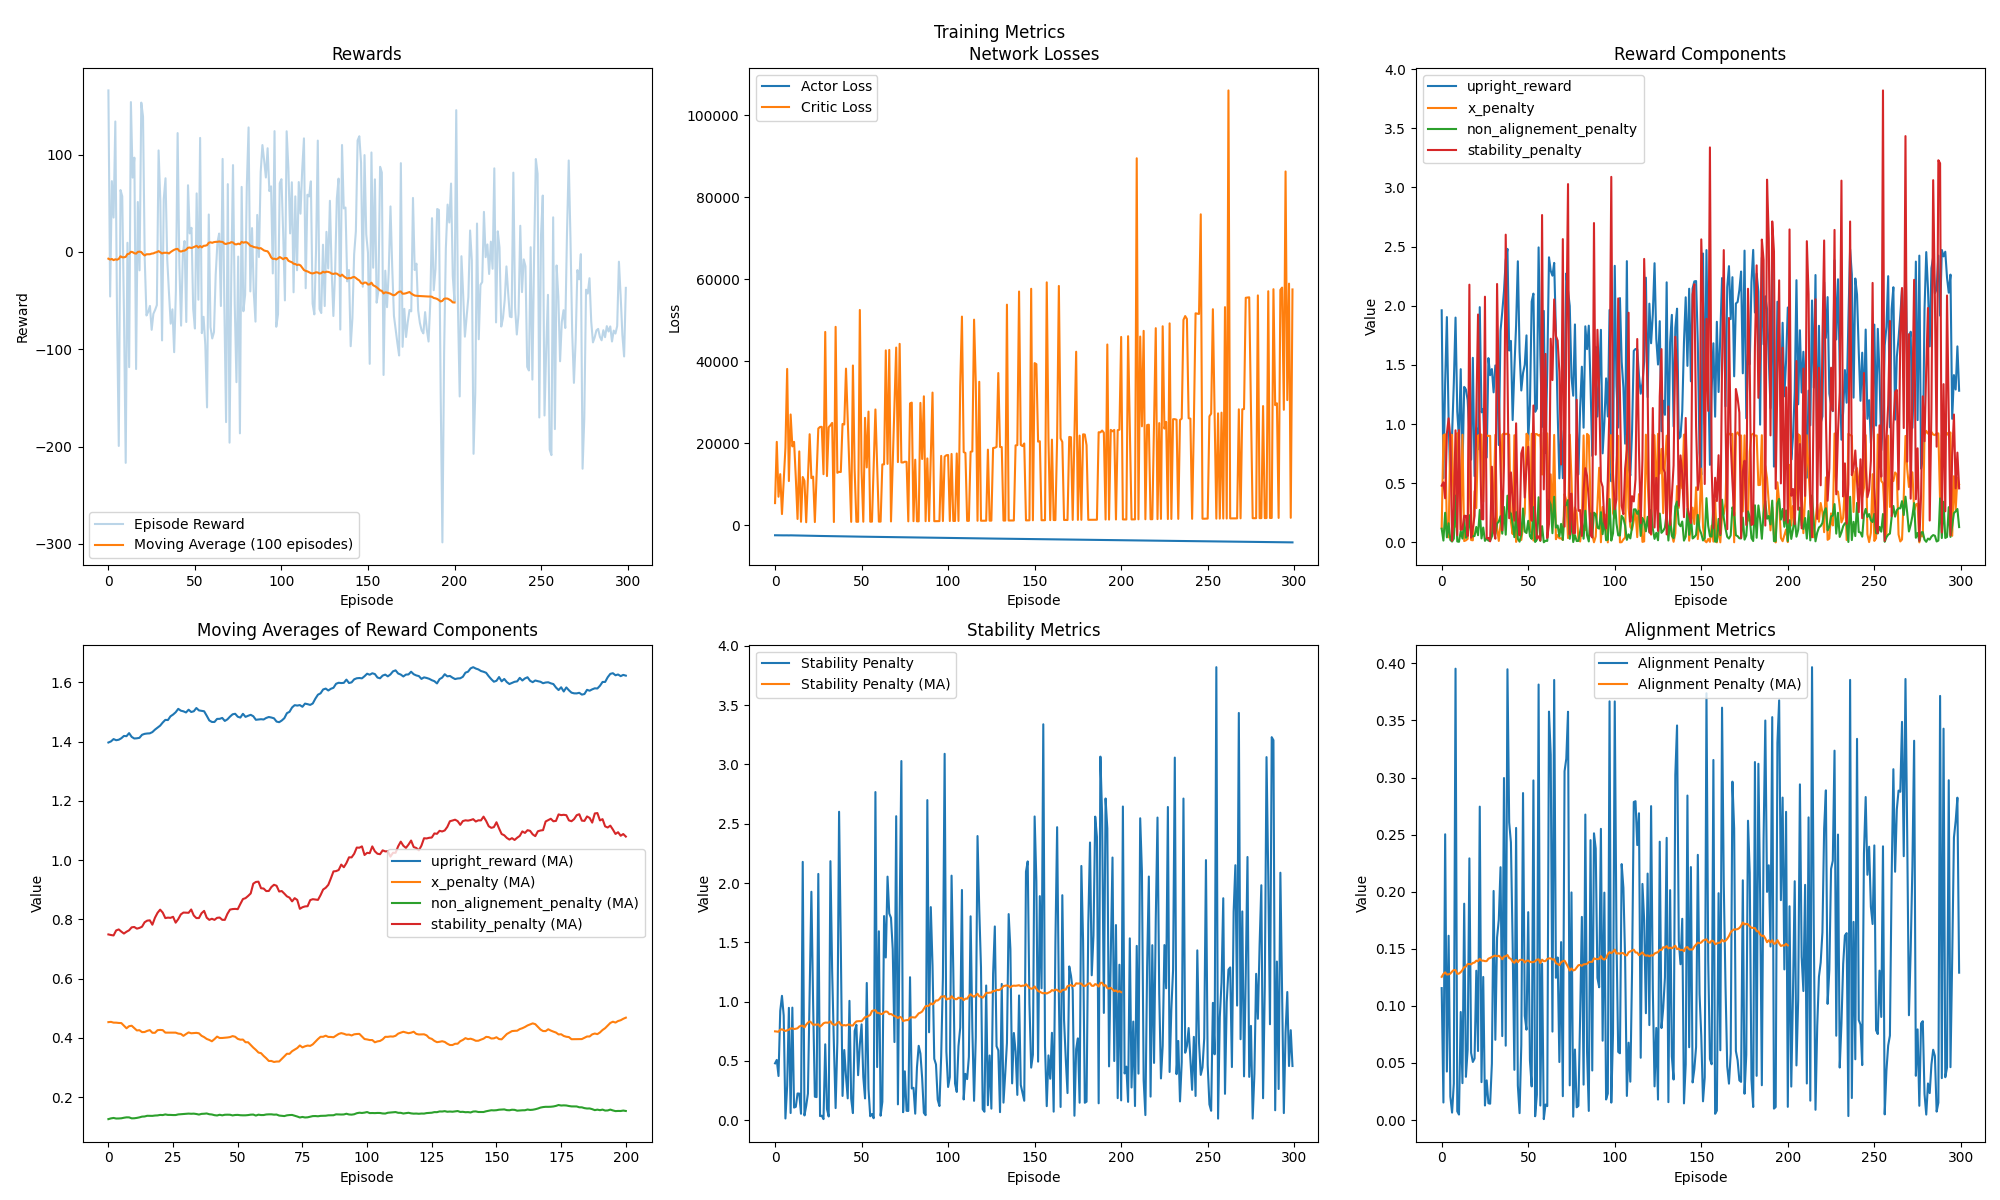
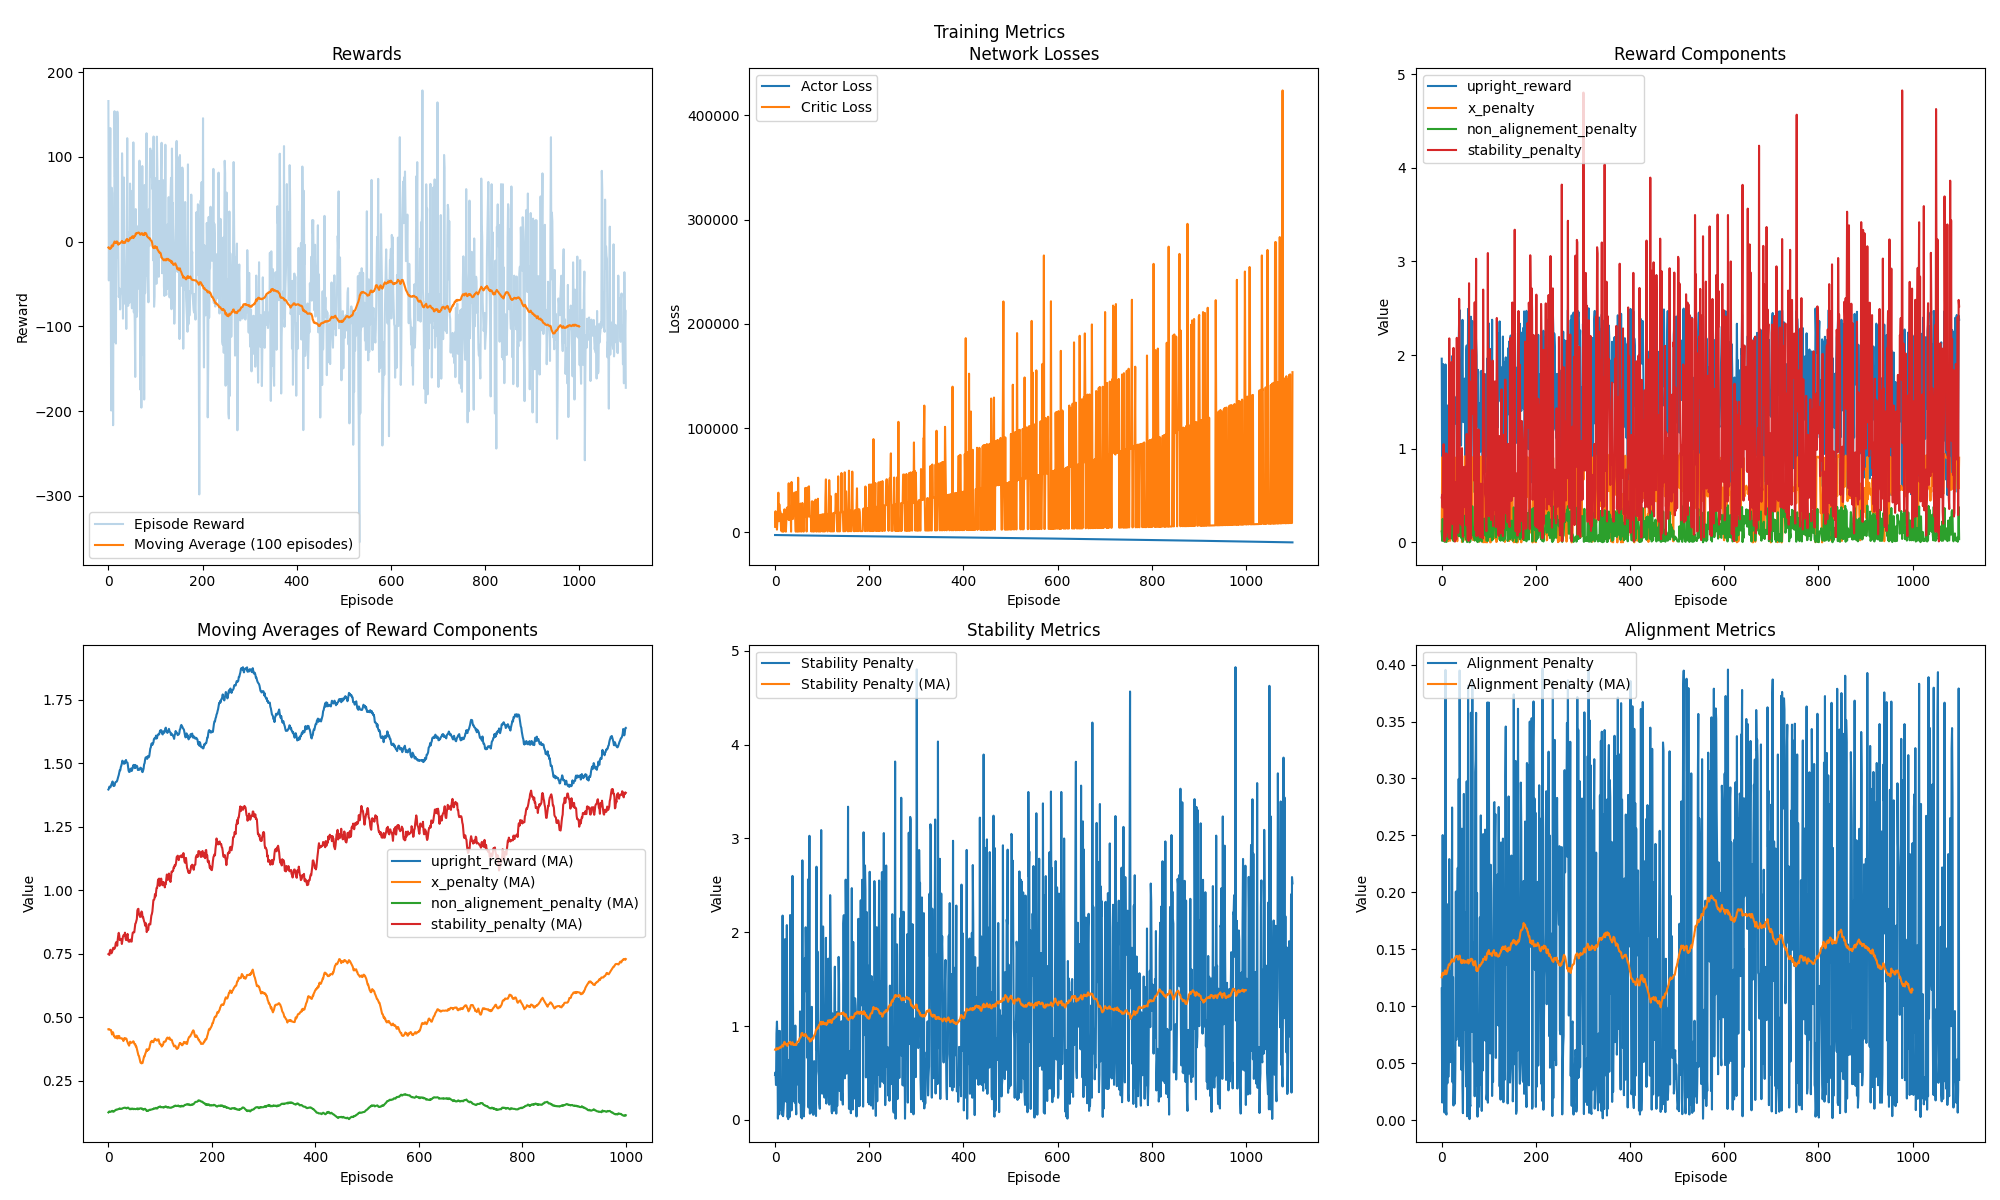
Enhance RewardManager in TriplePendulum environment by adjusting weights and introducing exponential reward calculations. Increase cart position weight, decrease upright weight, and implement tracking for consecutive upright steps. Update upright reward calculation to include angles and apply an exp

diff --git a/reward.py b/reward.py
@@ -2,13 +2,17 @@ import numpy as np
 import random as rd
 class RewardManager:
     def __init__(self):
-        self.cart_position_weight = 0.10
+        self.cart_position_weight = 0.20
         self.termination_penalty = 100.0
         self.alignement_weight = 0.1
-        self.upright_weight = 2.0
+        self.upright_weight = 0.2
         self.stability_weight = 0.005  # Weight for the stability reward
         self.old_state = None
         self.length = 0.5  # Pendulum length
+        self.consecutive_upright_steps = 0  # Track consecutive steps with pendulum upright
+        self.upright_threshold = 1.2  # Threshold for considering pendulum upright
+        self.exponential_base = 1.15  # Base for exponential reward
+        self.max_exponential = 5.0  # Maximum exponential multiplier
 
     def calculate_reward(self, state, terminated, current_step):
         """
@@ -43,7 +47,29 @@ class RewardManager:
         # Uprightness of each node - negate p*_y values because in the physics simulation,
         # negative y means upward (which is what we want to reward)
         # The physics uses a reference frame where positive y is downward
-        upright_reward = self.upright_weight * (2.25 - end1_y - end2_y - end3_y)
+        upright_reward_points = self.upright_weight * (2.25 - end1_y - end2_y - end3_y)
+        upright_reward_angles = self.upright_weight * (abs(th1) + abs(th2) + abs(th3))
+        upright_reward = upright_reward_points + upright_reward_angles
+
+
+
+        # Check if pendulum is upright
+        is_upright = (upright_reward > self.upright_threshold)
+
+        # Update consecutive upright steps
+        if is_upright:
+            self.consecutive_upright_steps += 1
+        else:
+            self.consecutive_upright_steps = 0
+
+        # Calculate exponential reward multiplier
+        exponential_multiplier = min(
+            self.exponential_base ** (self.consecutive_upright_steps / 20),  # Divide by 100 to make it grow more slowly
+            self.max_exponential
+        )
+
+        # Apply exponential multiplier to upright reward
+        upright_reward *= exponential_multiplier
 
         # Stability reward: penalize high angular velocities and accelerations
         angular_velocity_penalty = (th1_dot**2 + th2_dot**2 + th3_dot**2) / 3.0
